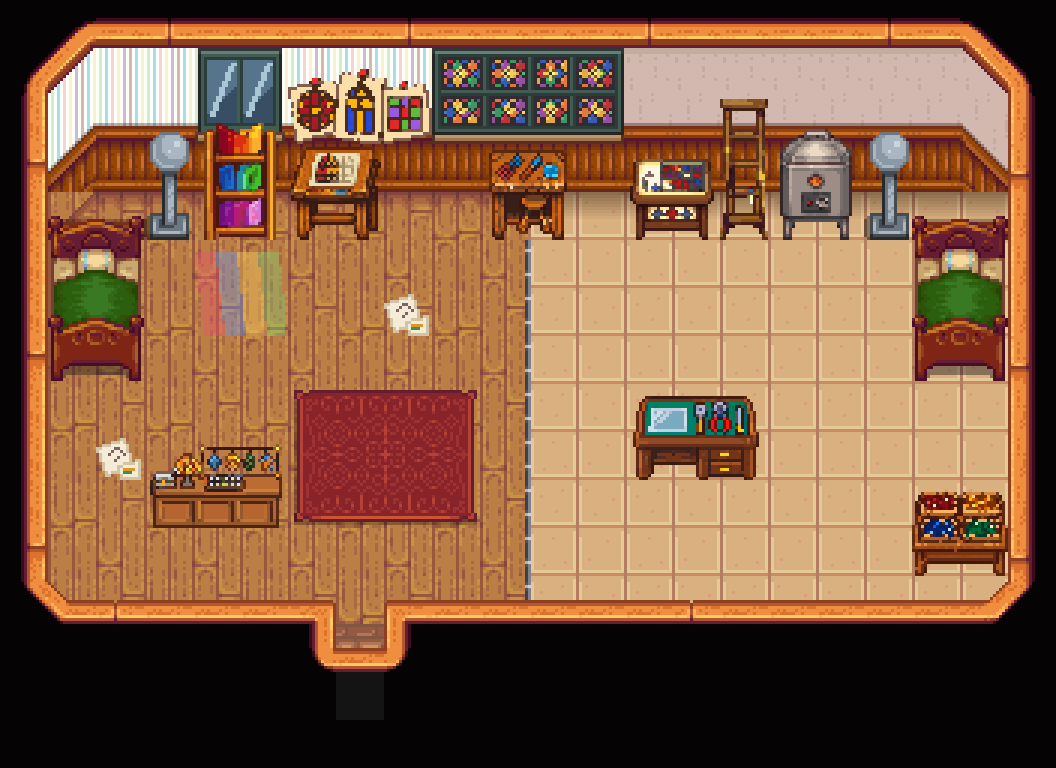
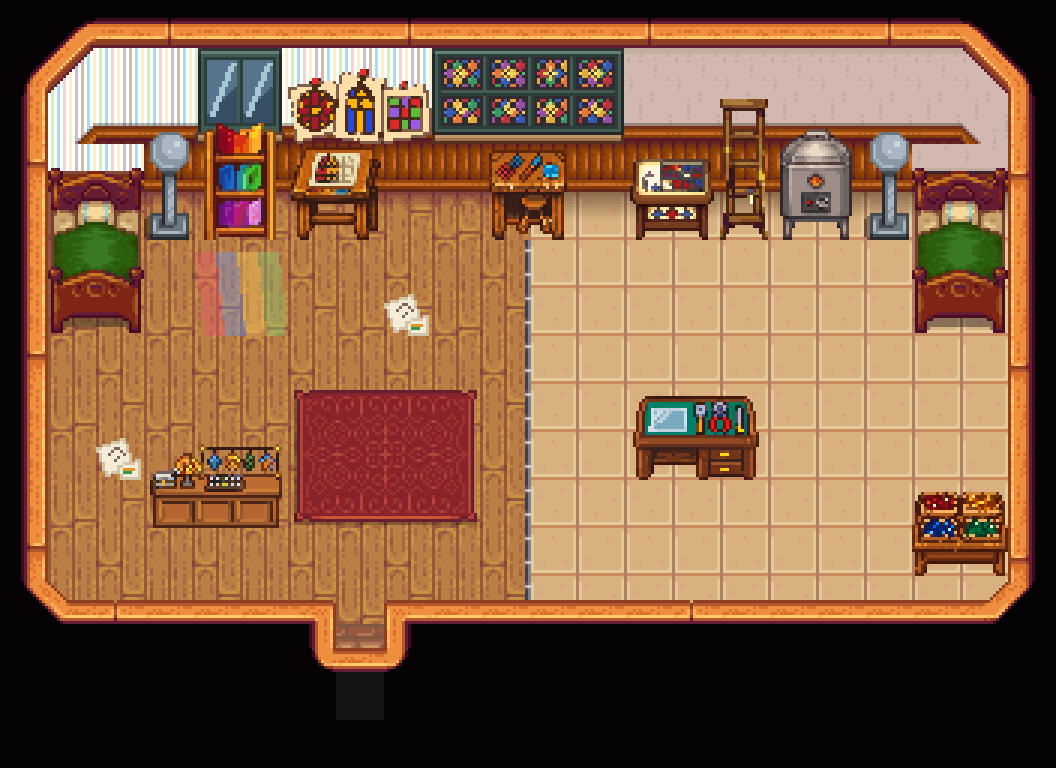
Gilded Vale Studio II: the beds a row up, so the Saloon bed's scrap of wall sits on the wainscot, not the floor

Changed region(s): [[0.8438, 0.1875, 0.9688, 0.5], [0.0312, 0.1875, 0.1562, 0.5]]

diff --git a/tools/build_vale_buildings.py b/tools/build_vale_buildings.py
@@ -585,11 +585,13 @@ BUILDINGS = {
                "ladder": "art/gilded_vale/interiors/hall/hall_v1/ladder_1_8"},
         lights=[(3, 3), (10, 3), (13, 4), (18, 3), (4, 9)],
         pieces=[
+            # (the beds a row up, their first row on the wainscot: the Saloon bed's top row is a scrap
+            # of the Saloon's own wall, which showed on the floor above them, the user 2026-11-09)
             # ---- Opal's half, the west: her bed at the end, a city lamp, the glass racks
             # throwing colour on the floor, her designs pinned up over her drawing board
             # (the small window behind the racks first, so the racks stand in front of it; its
             # daylight through their glass is the colour on the floor, the user 2026-11-09)
-            ("bed", 1, 4), ("city_lamp", 3, 2), ("small_window", 4, 1), ("glass_racks", 4, 2), ("colour_pool", 4, 5),
+            ("bed", 1, 3), ("city_lamp", 3, 2), ("small_window", 4, 1), ("glass_racks", 4, 2), ("colour_pool", 4, 5),
             ("design_sketches", 6, 1), ("drafting_table", 6, 3), ("sketch_papers", 2, 9), ("sketch_papers#2", 8, 6),
             # the counter by the door, where she sells; a rug (the panels that leaned on its side went:
             # at 16 pixels wide they read as a pile of stuff, the user 2026-11-09)
@@ -603,7 +605,7 @@ BUILDINGS = {
             # the loft, the sleek city kiln, a city lamp, his bed at the end; his cutting bench and
             # the offcuts sorted by colour, nothing on the floor
             ("light_table", 13, 3), ("ladder", 15, 2), ("modern_kiln", 16, 2),
-            ("city_lamp#2", 18, 2), ("bed#2", 19, 4),
+            ("city_lamp#2", 18, 2), ("bed#2", 19, 3),
             ("cutting_bench", 13, 8), ("offcut_bins", 19, 10),
         ],
         describe={"glass_racks": "racks", "design_sketches": "designs", "drafting_table": "drafting",
